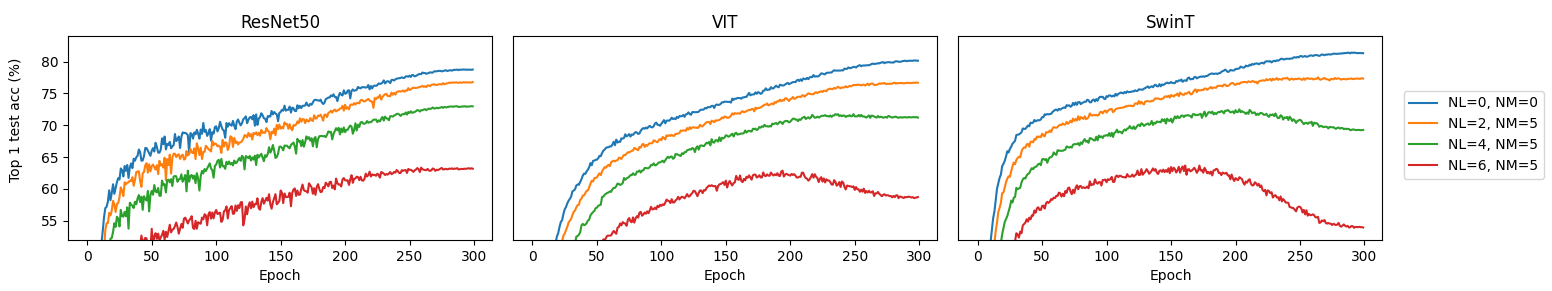
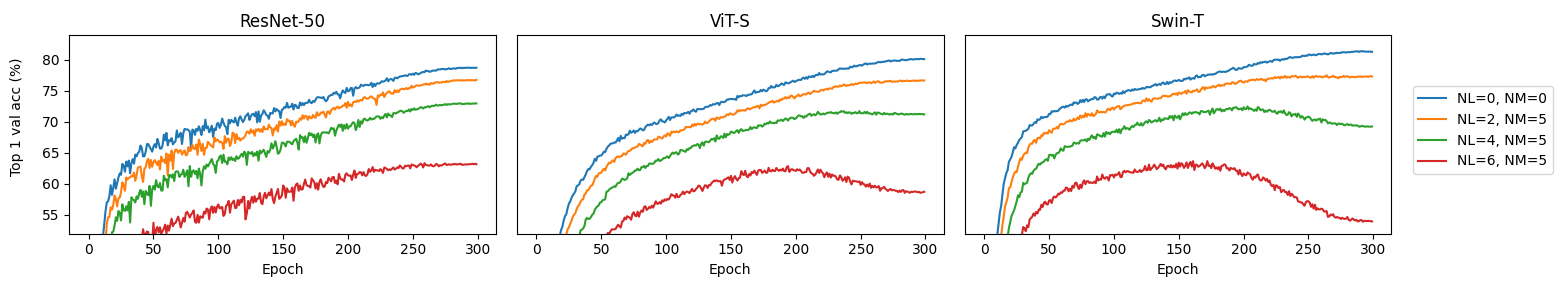
update labels

diff --git a/plot.py b/plot.py
@@ -23,11 +23,11 @@ noises = {
     4: '4_5',
     6: '6_5'}
 h2f = {
-    'rn50': 'ResNet50',
-    'vits': 'VIT',
-    'swint': 'SwinT',
+    'rn50': 'ResNet-50',
+    'vits': 'ViT-S',
+    'swint': 'Swin-T',
     'mixer': 'MLP-Mixer',
-    'gmlp': 'gMLP',
+    'gmlp': 'gMLP-S',
 }
 results = {}
 for shortform, filename in noises.items():
@@ -55,7 +55,7 @@ def plot_across_nl():
     handles, labels = axs[0].get_legend_handles_labels()
     axs[-1].legend(handles, labels, loc=[1.1,0.3])
 
-    fig.text(0.09, 0.6, 'Top 1 test acc (%)', va='center', rotation='vertical')
+    fig.text(0.09, 0.6, 'Top 1 val acc (%)', va='center', rotation='vertical')
     plt.subplots_adjust(wspace=0.05, bottom=0.2)
     plt.show()
 
@@ -83,8 +83,9 @@ def plot_across_arch():
     handles, labels = axs[0].get_legend_handles_labels()
     axs[-1].legend(handles, labels, loc=[1.05,0.3])
 
-    fig.text(0.09, 0.6, 'Top 1 test acc (%)', va='center', rotation='vertical')
+    fig.text(0.09, 0.6, 'Top 1 val acc (%)', va='center', rotation='vertical')
     plt.subplots_adjust(wspace=0.05, bottom=0.2)
     plt.show()
 
+plot_across_nl()
 plot_across_arch()
